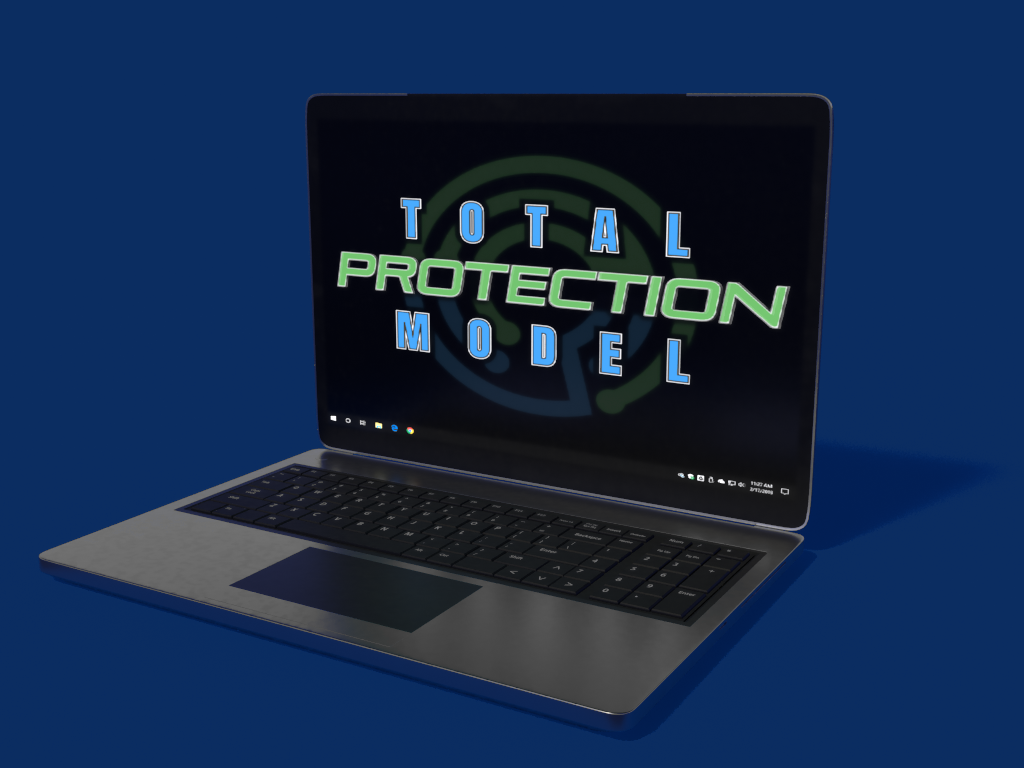
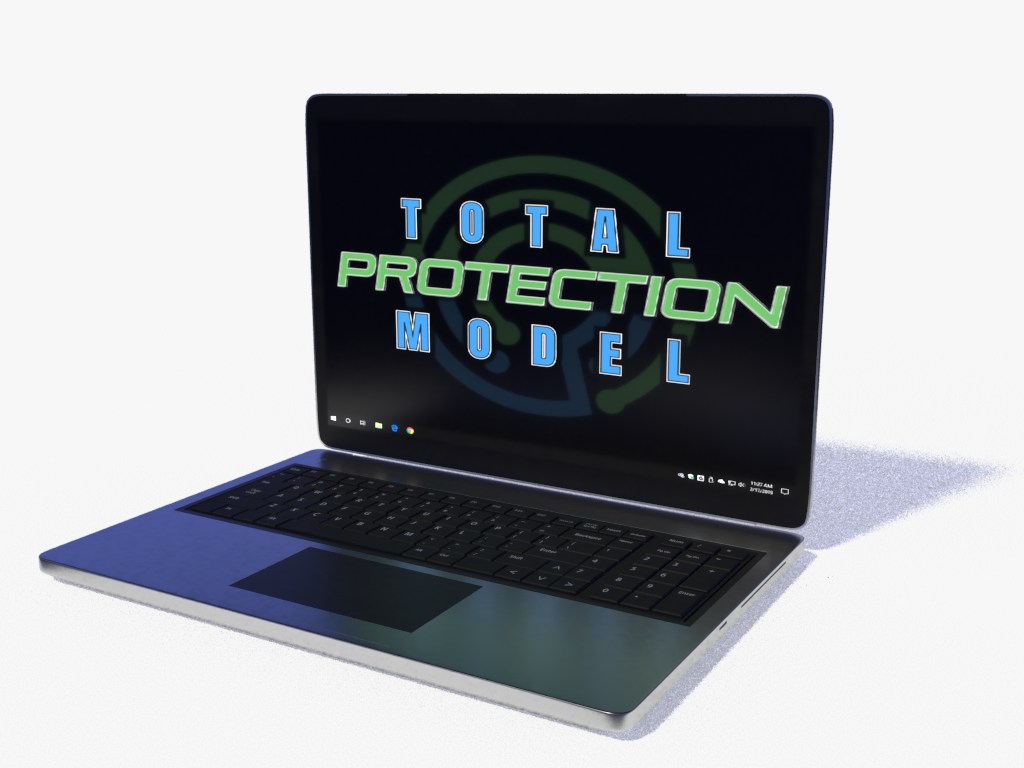
whiteify

diff --git a/index.html b/index.html
@@ -19,18 +19,25 @@
 			<a href="index.html"><img class="logo" alt="" src="assets/logo.svg"></a>
 			<div class="header_spacer_middle"></div>
 			<div class="menu_links">
-				<a href="index.html"><img class="menu_link" alt="" src="assets/site-menu-about.svg"></a>
-				<a href="index.html"><img class="menu_link" alt="" src="assets/site-menu-contact.svg"></a>
-				<a href="index.html"><img class="menu_link" alt="" src="assets/site-menu-articles.svg"></a>			
+				<a href="index.html"><img class="menu_link" alt="" src="assets/link-about.svg"></a>
+				<a href="index.html"><img class="menu_link" alt="" src="assets/link-contact.svg"></a>
+				<a href="index.html"><img class="menu_link" alt="" src="assets/link-articles.svg"></a>			
 			</div>
 			<div class="header_spacer_end"></div>
 		</header>
-          <hr width="95%" align="center">
           <section class="intro">
                <div class="intro_words">
-                    <h2>ENTERPRISE-LEVEL NETWORK SERVICES</h2>
-                    <h1>FOR ANY COMPANY SIZE</h1>
-                    <p>with the TOTAL PROTECTION MODEL from MSP Tech Services.</p>              
+                    <p class="intro1">ENTERPRISE-GRADE NETWORK MANAGEMENT AND PROTECTION</p>
+                    <p>
+                         <span class="intro2b">24x7 MONITORING AND MAINTENANCE</span>
+                         <br>
+                         <span class="intro2b">PROACTIVE ENDPOINT SECURITY</span>
+                         <br>
+                         and <span class="intro2b">LIVE SUPPORT</span>
+                    </p>
+                    <p class="intro3">with the TOTAL PROTECTION MODEL<sup>&trade;</sup> from MSP Tech Services.</p>
+                    <p class="intro3">See how much your company could save!</p>
+                    <button class="intro_button">REQUEST A LIVE DEMO</button>
                </div>
                <div class="intro_laptop">
                     <img class="laptop" src="assets/laptop.png" alt=""/>
@@ -38,7 +45,7 @@
           </section>
 		<section class="main">
 			<article class="box_curves">
-				main
+				<p>The Total Protection Model<sup>&trade;</sup> Explained</p>
 			</article>
 			
 		</section>

diff --git a/css/temp.css b/css/temp.css
@@ -1,5 +1,5 @@
 body {
-	background-color: #042C68;
+	background-color: #ffffff;
 	margin: 0em;
 	display: flex;
 	flex-flow: column nowrap;
@@ -14,6 +14,8 @@ body {
 	height: auto;
 	justify-content: space-around;
 	align-items: center;
+     border-bottom: 0.1em #e0e2e5 solid;
+     box-shadow: 0 0 0.5em rgba(0, 0, 0, 0.1);
 }
 
 .logo {width: 9em; align-self: center;}
@@ -30,43 +32,71 @@ body {
 .menu_link {width: 4em; align-self: center;}
 
 .intro {
-     color: #ffffff;
+     background-color: #f7f7f7;
+     color: #323232;
 	display: flex;
-     width: 98%;
      justify-content: space-between;
      align-self: center;
+     padding: 1em;
+     border-bottom: 0.1em #e0e2e5 solid;
+     box-shadow: 0 0 0.5em rgba(0, 0, 0, 0.1);
 }
 
-.intro_words {border: 1px solid red;}
-.intro_laptop {border: 1px solid blue;}
+.intro_words {padding: 1em; line-height: 2em;}
+.intro_laptop {}
+
 .laptop {max-width:100%;}
+
+.intro1 {font-size: 2em; font-weight: bold;}
+.intro2a {font-size: 1em;}
+.intro2b {font-size: 1em; font-weight: bold;}
+.intro3 {font-size: 0.75em;}
+
+.intro_button {
+     border: 0.2em solid #6dc065;
+     background-color: #f7f7f7;
+     color: #323232;
+     padding: 0.6em 1.2em;
+     font-size: 1em;
+     cursor: pointer;
+}
+
+.intro_button:hover {
+     background-color: #6dc065;
+}
 
 .main {
 	background-color: #ffffff;
-	color: #ecf5e4;
+     color: #323232;
 	height: 100vh;
 	padding: 2em;
      display: flex;
      flex-flow: column nowrap;
      align-items: center;
+     border-bottom: 0.1em #e0e2e5 solid;
+     box-shadow: 0 0 0.5em rgba(0, 0, 0, 0.1);
 }
 
 .box_curves {
 	border-radius: 0.75em;
 	background: #305284;
-	padding: 1em; 
+     color: #f7f7f7;
+	padding: 1em;
 	width: 98%;
 	height: 10em;
 }
 
 .footer {
-	color: #ecf5e4;
+     background-color: #f7f7f7;
+	color: #323232;
 	height: auto;
 }
 
 @media screen and (max-width: 749px) {
 	.header {flex-flow: column nowrap;}
 	.logo {width: 100%;}
+     .intro {flex-flow: column nowrap;}
+     .intro_words {text-align: center;}
 }
 
 @media screen and (max-height: 500px) {
